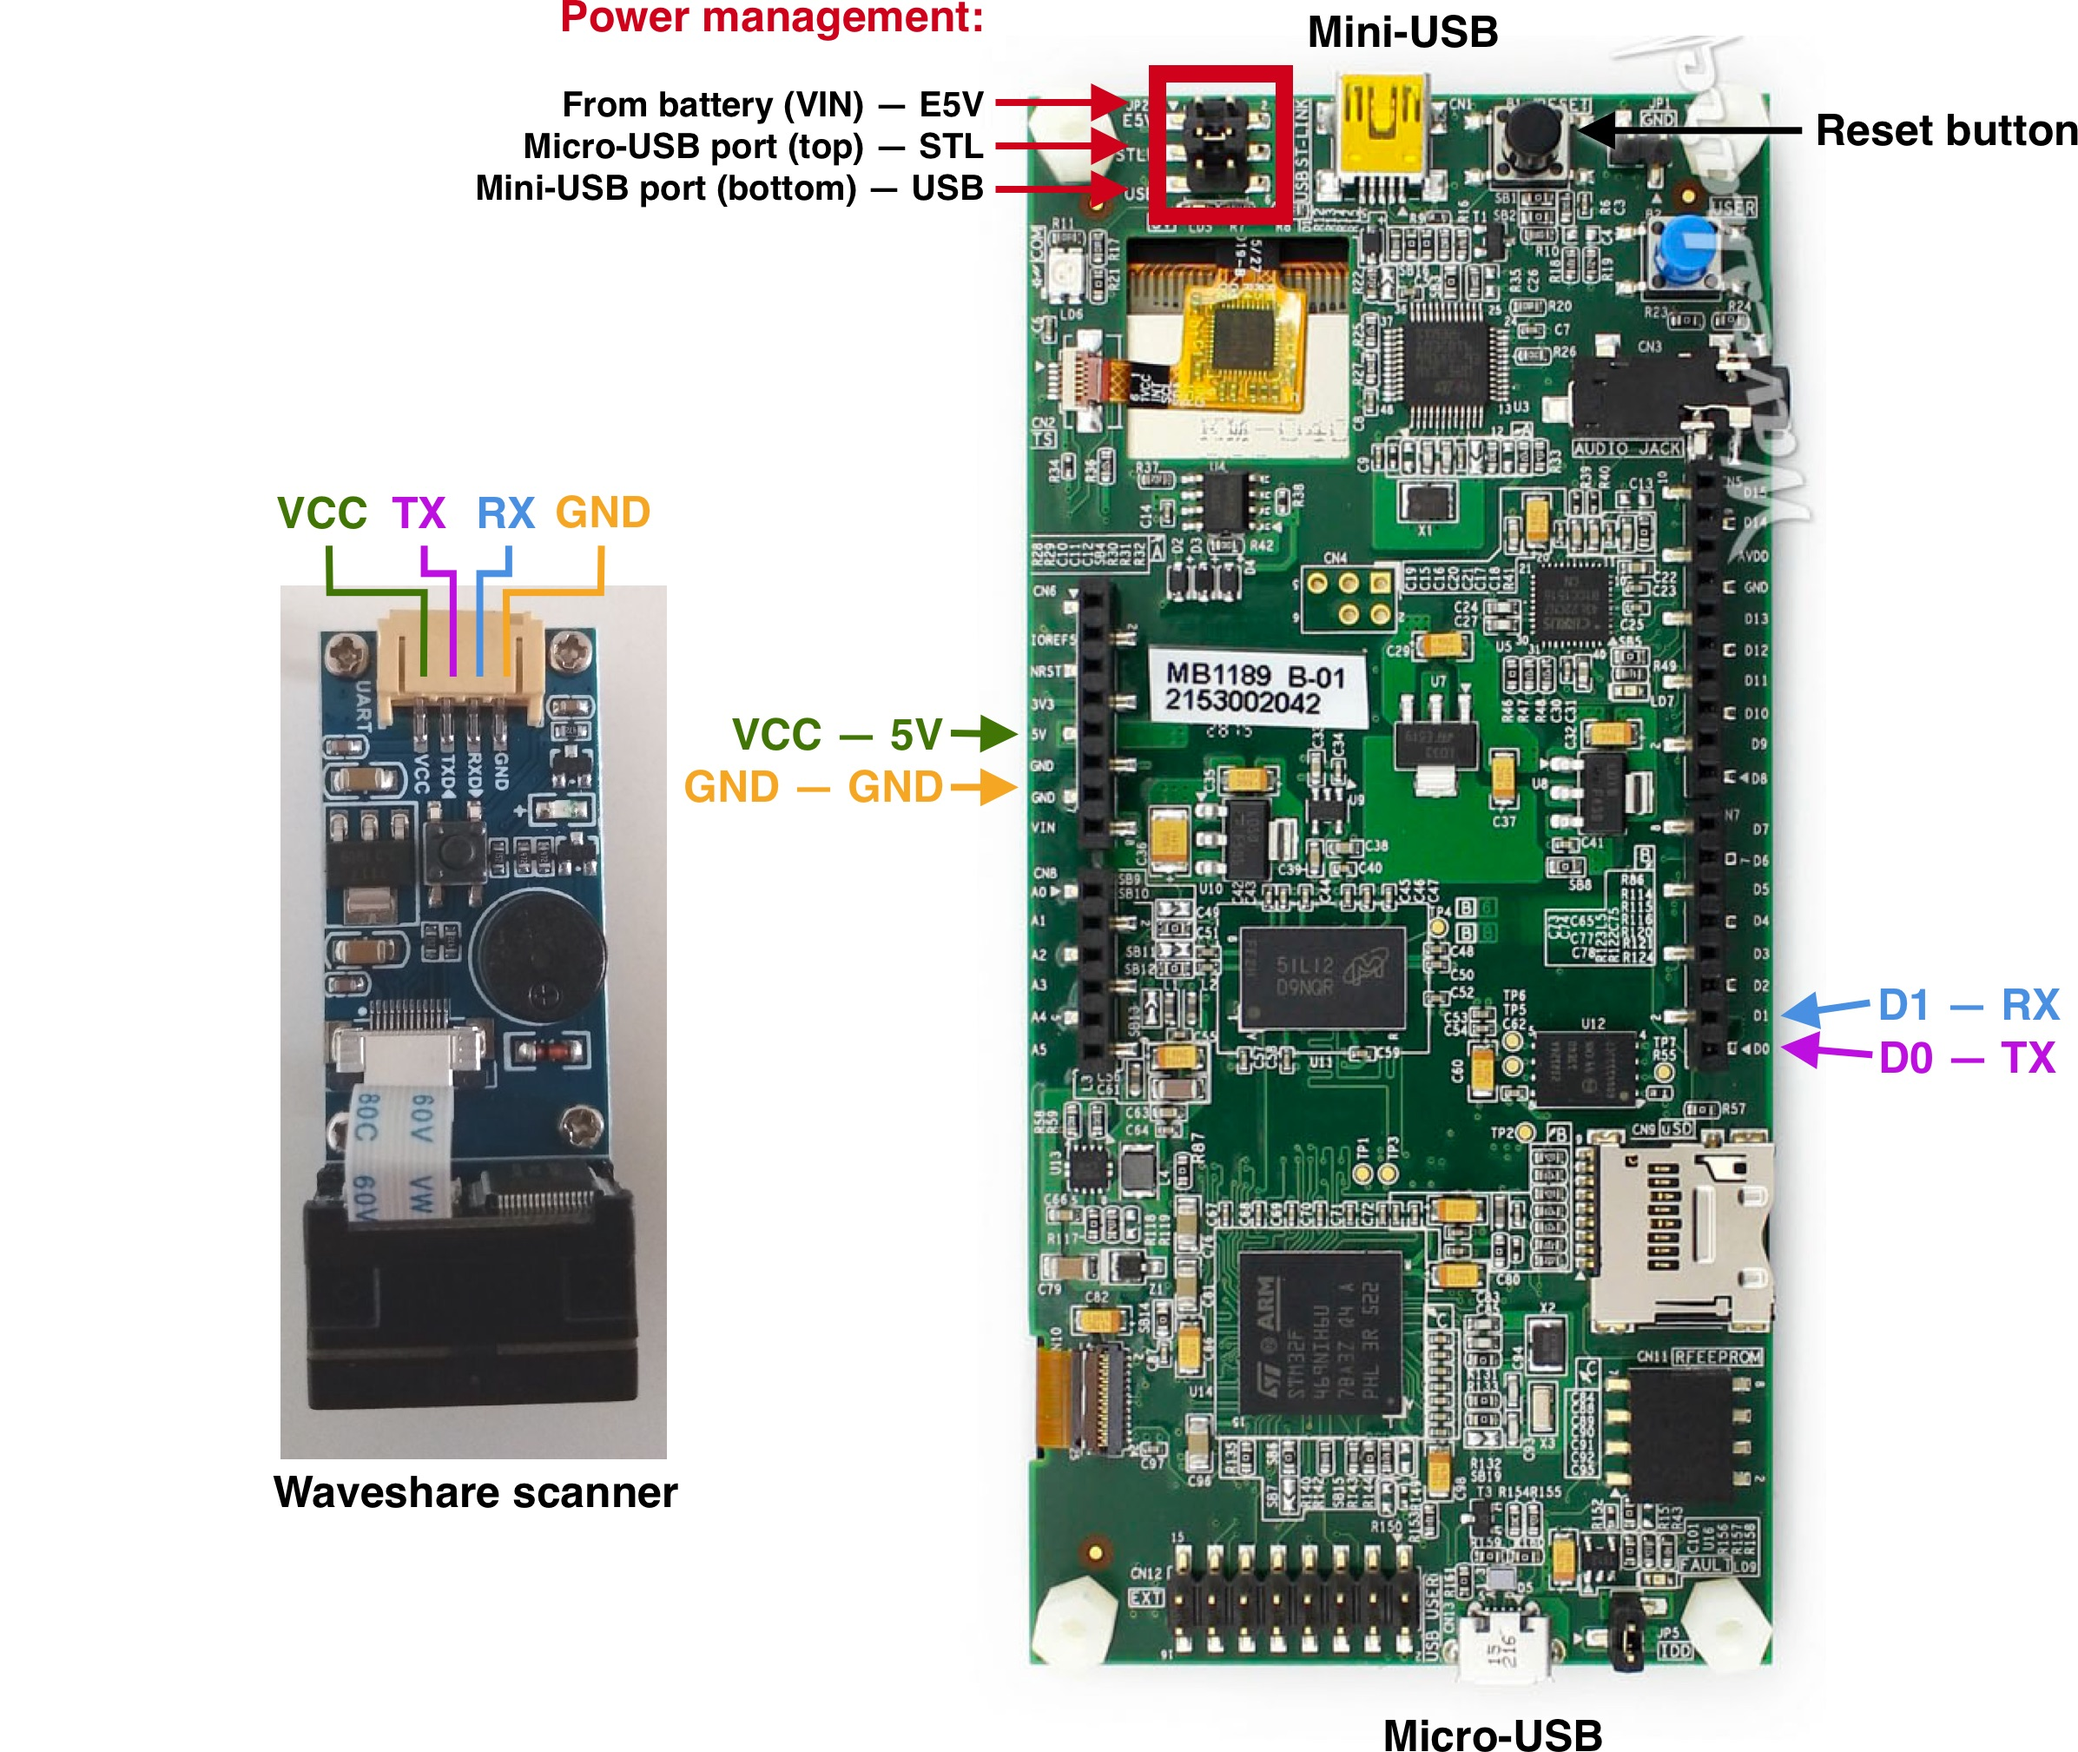
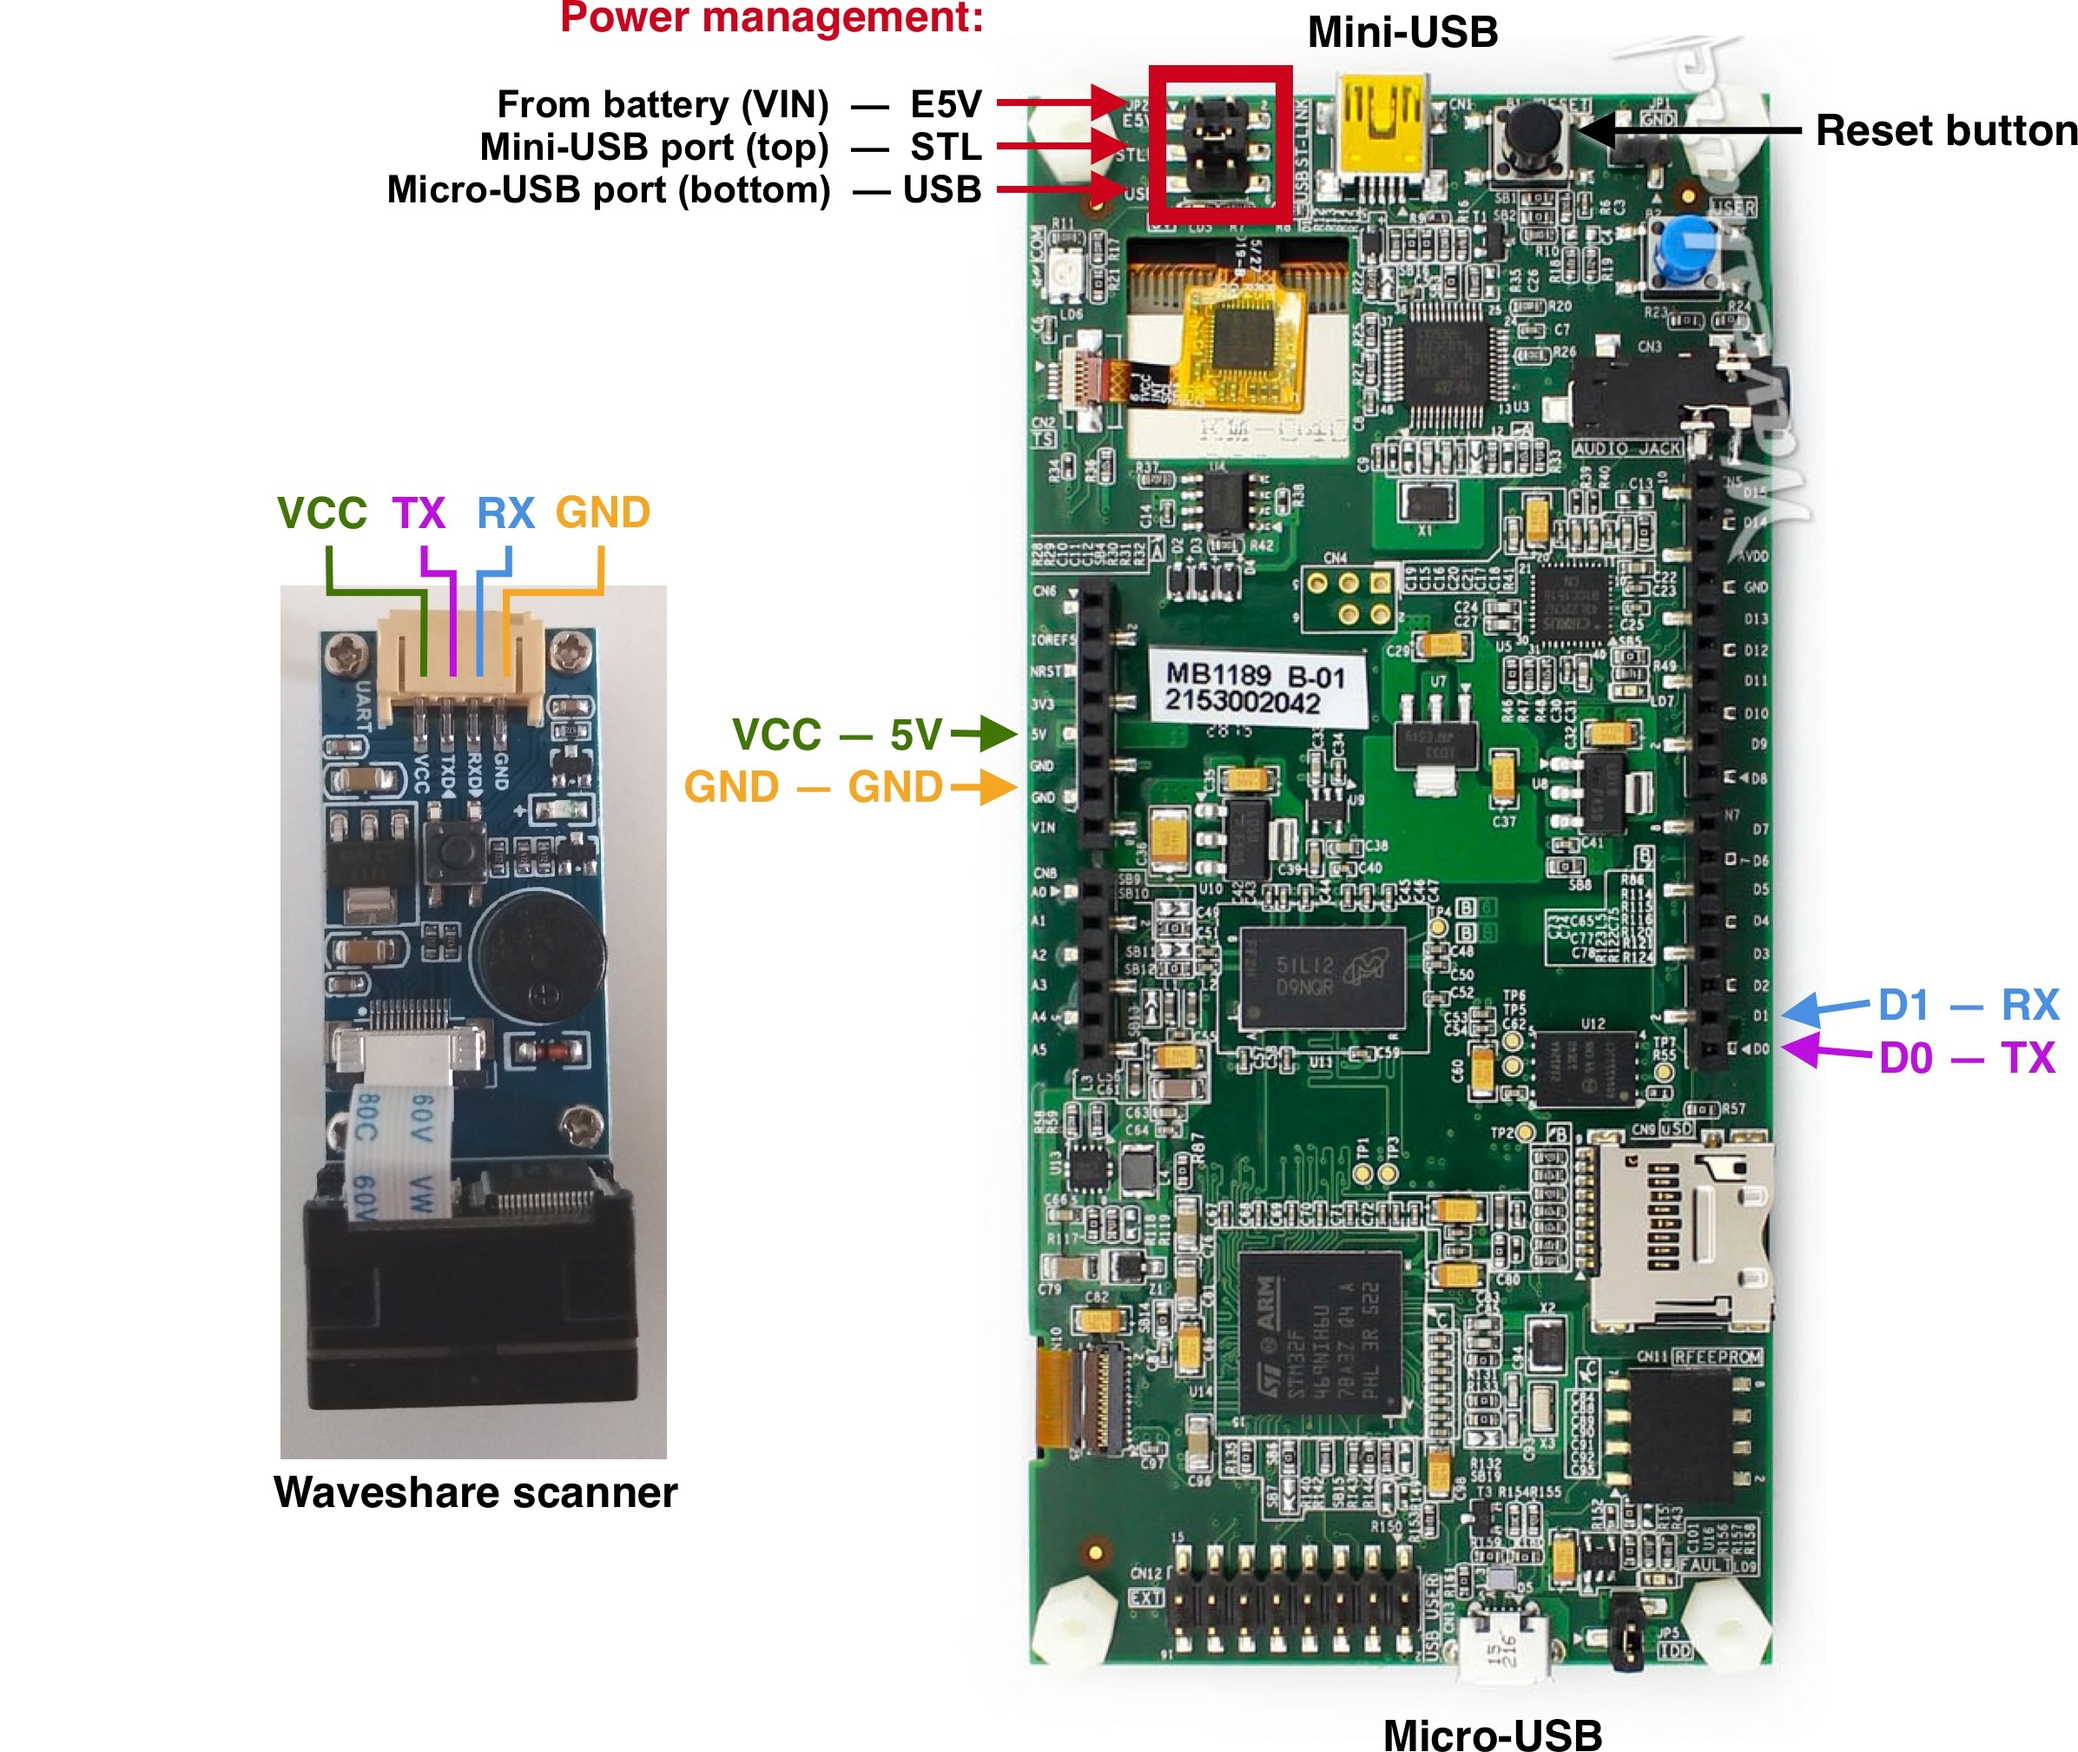
fix pic typo, add headers to the shopping list (#96)

Changed region(s): [[0.1855, 0.0312, 0.4639, 0.1249]]

diff --git a/docs/shopping.md b/docs/shopping.md
@@ -10,7 +10,13 @@ Main part of the device is the developer board:
 - **Mini**USB cable
 - Standard MicroUSB cable to communicate over USB
 
-For the rest of the components we are currently working on [a devkit](../devkit) that includes a smartcard slot, QR code scanner, battery and a 3d printed case, but it doesn't include the main part — discovery board that you need to order separately. This way supply chain attack is still not an issue as the security-critical components are bought from random electronic store.
+Optional but recommended:
+- [Waveshare QR code scanner](https://www.waveshare.com/barcode-scanner-module.htm)
+- Long-ish pin headers like [these](https://eu.mouser.com/ProductDetail/Samtec/DW-02-10-T-S-571?qs=sGAEpiMZZMvlX3nhDDO4AE5PKXAQeC6NPk%2FcLBS9yKI%3D) to connect the scanner to the board
+
+Check out the assembly video [on youtube](https://youtu.be/1H7FqG_FmCw)
+
+We are currently working on [a devkit](../devkit) that includes a smartcard slot, QR code scanner, battery and a 3d printed case, but it doesn't include the main part — discovery board that you need to order separately. This way supply chain attack is still not an issue as the security-critical components are bought from random electronic store.
 
 You can start using Specter even without any extra components, but you will be able to communicate with it only over USB. In this case it's not airgapped so you lose an important security property.
 
